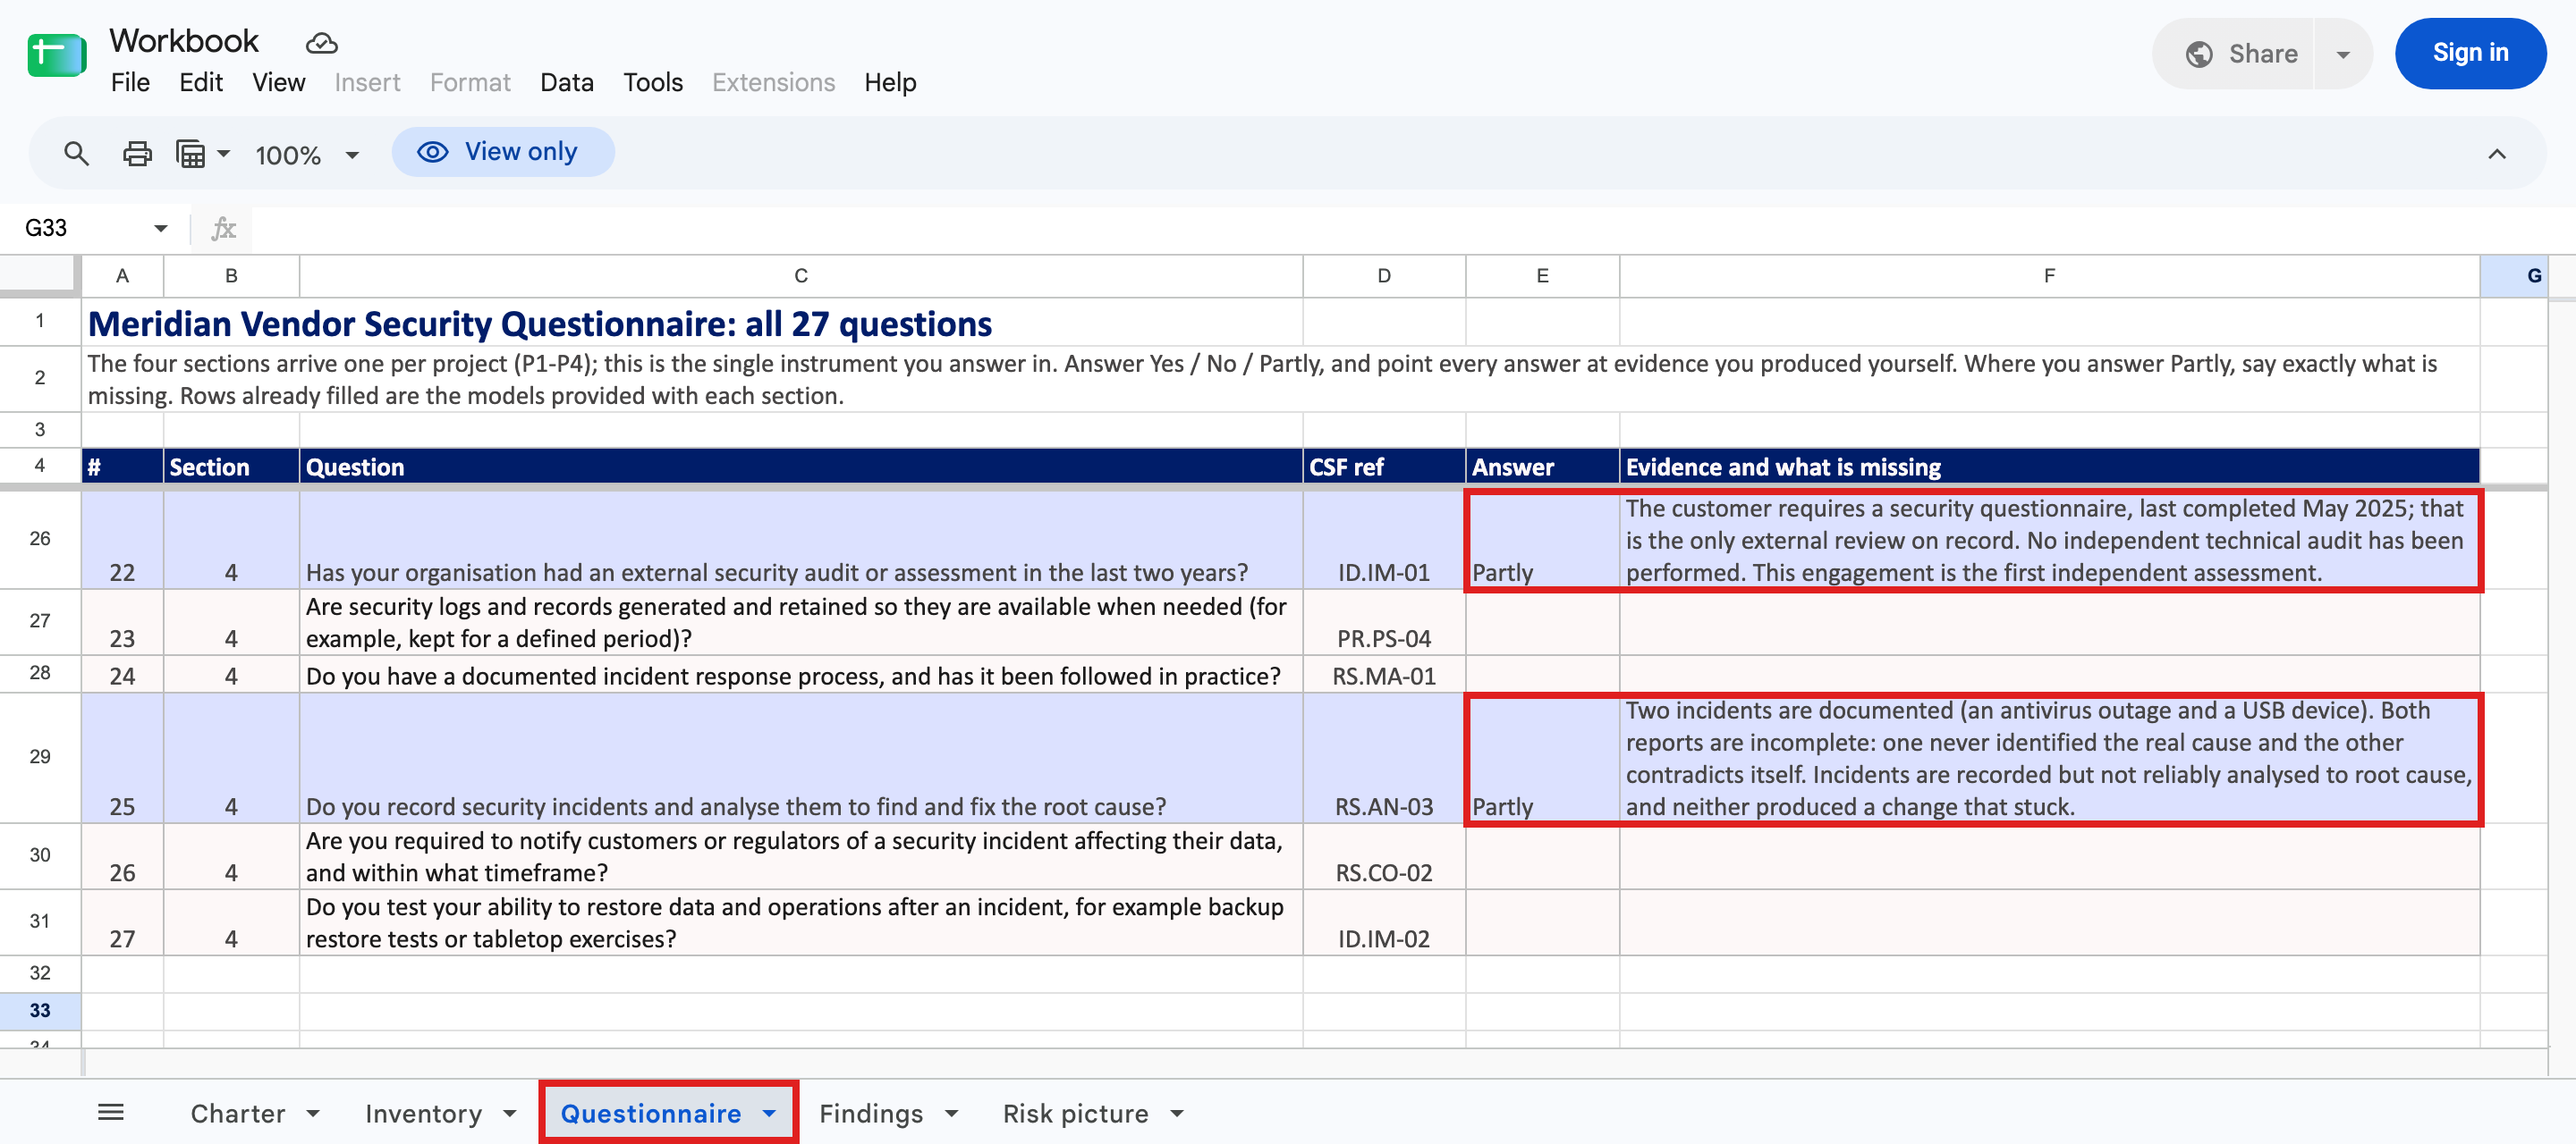
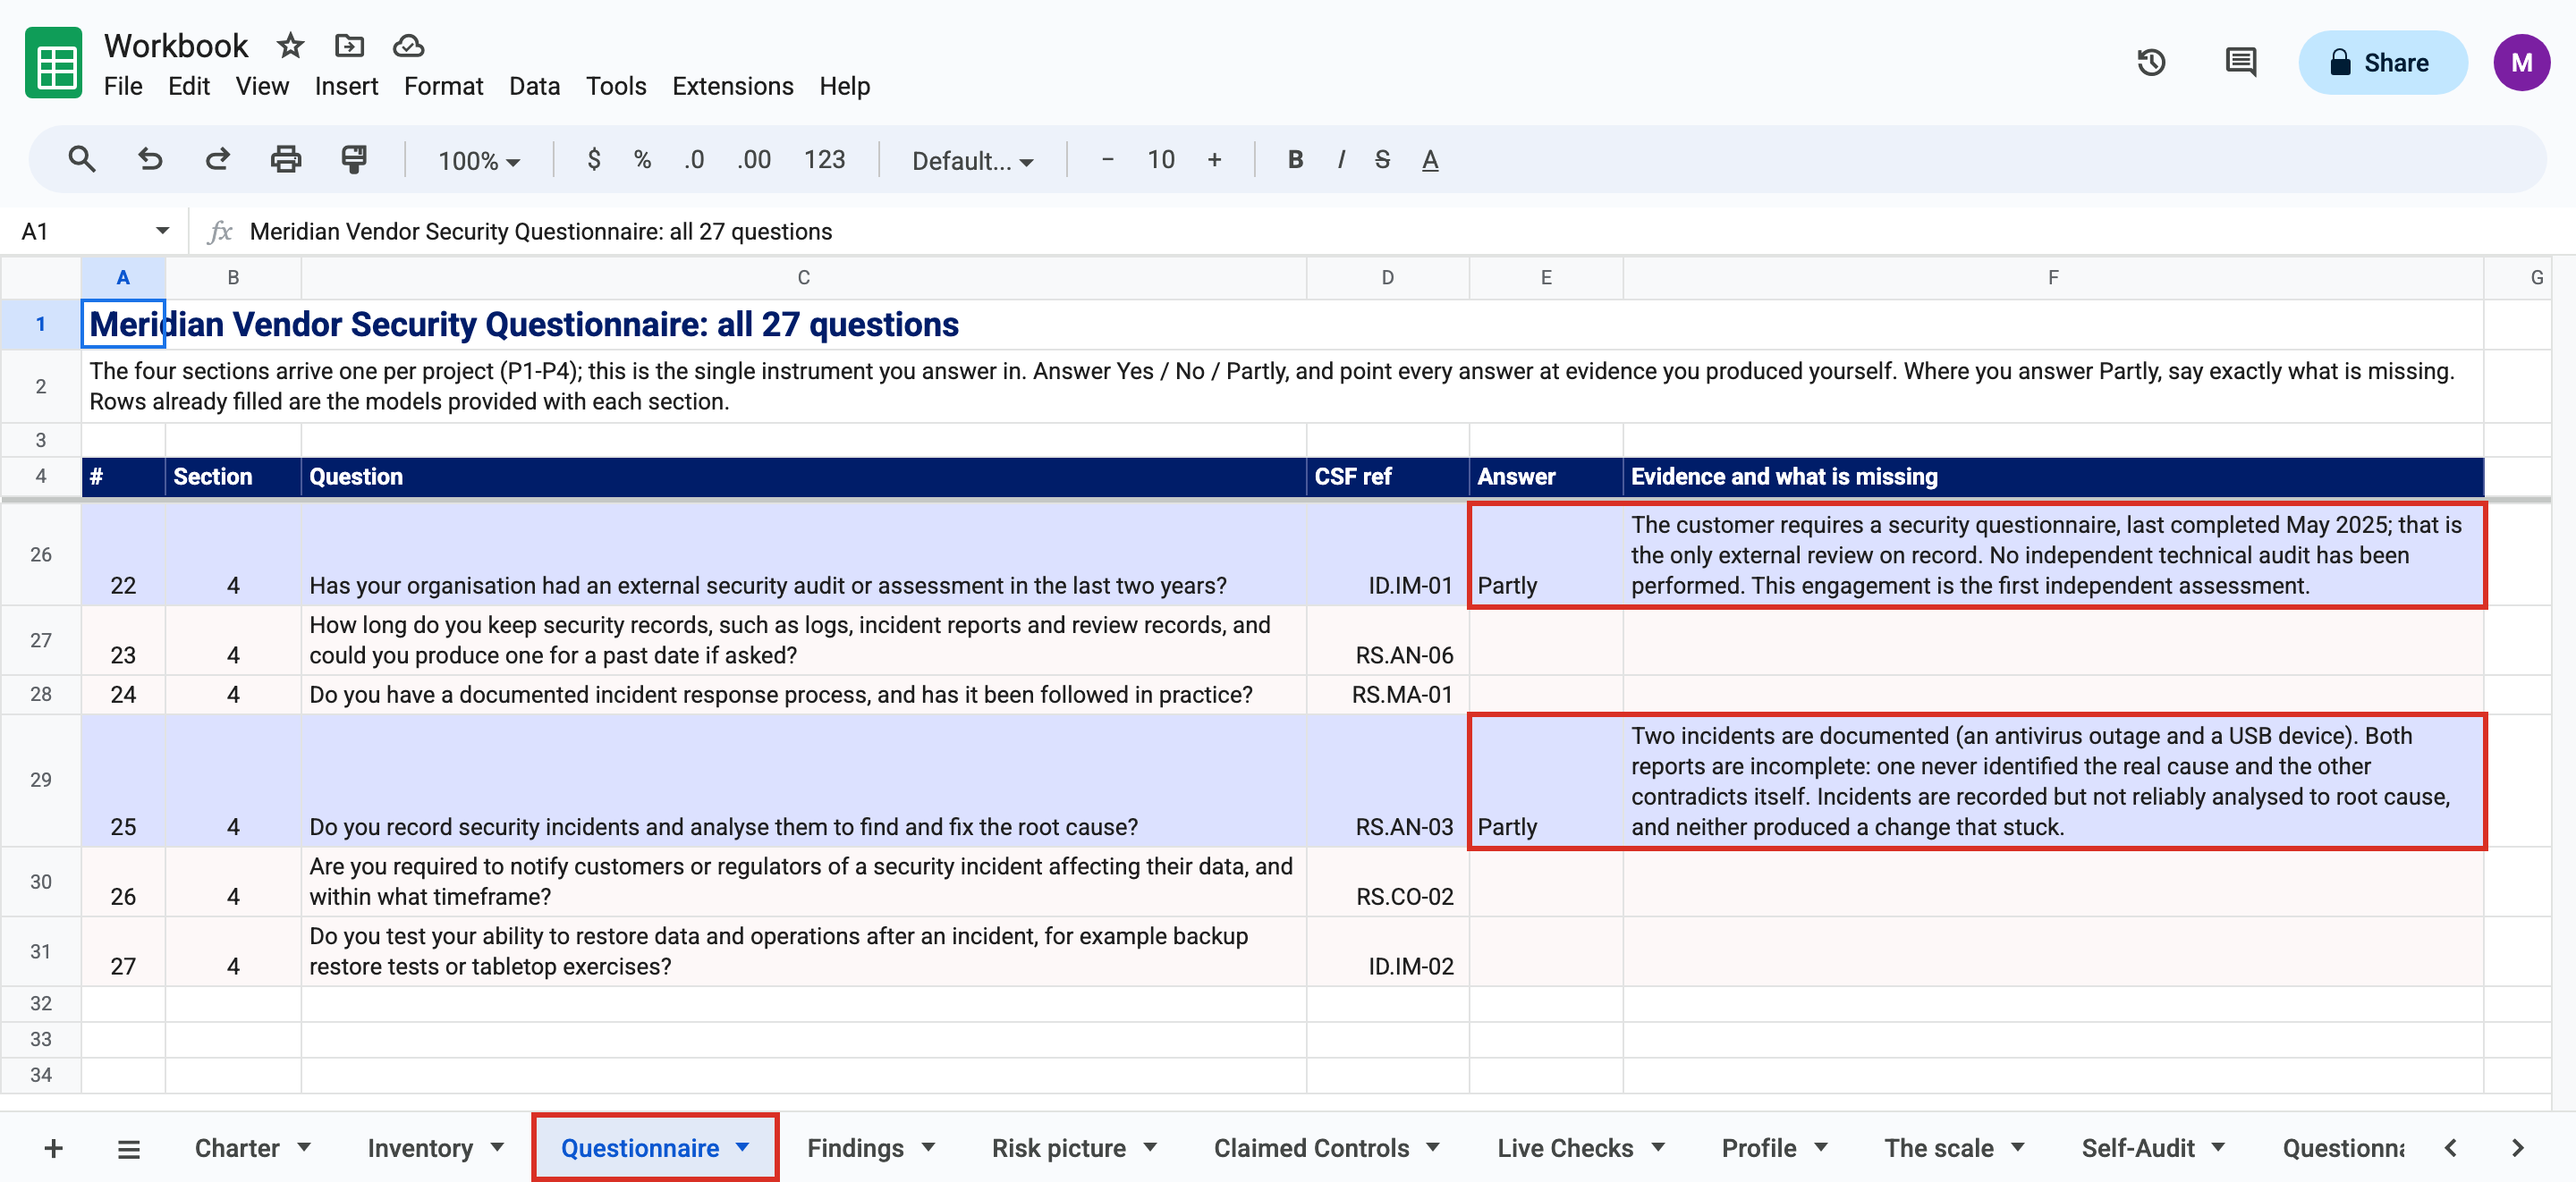
Publish vCISO P1 Step 1 interactives
Project 1 Step 1 interactives for the vCISO externship. Extern palette
only, vanilla JS, no external requests, keyboard operable, reduced-motion
safe.

diff --git a/vciso-p4-m3-what-would-an-auditor-accept.html b/vciso-p4-m3-what-would-an-auditor-accept.html
@@ -360,31 +360,36 @@
   var ITEMS = [
     { n:1, ic:"chat", ok:"only",
       t:"Nate saying “I review it every quarter”",
+      hint:"Nate is telling the truth. But can you hand what someone said to an auditor, with a date on it and a record of what was done? Try again.",
       def:"Every quarter means every three months.",
       why:["It is true, and it is still not evidence, the kind of proof an auditor can take. A person’s word is where you start, not what you hand over."] },
     { n:2, ic:"image", ok:"only", weak:true,
       t:"A screenshot of the firewall rules, no date on it",
+      hint:"Look for a date. Can you tell when this picture was taken? Try again.",
       def:"A screenshot is a picture of what was on a screen at one moment.",
       why:["It has no date, so you can’t tell when it was taken. It is weak, not nothing: a dated configuration export fixes it."] },
     { n:3, ic:"mail", ok:"only", weak:true,
       t:"The two 2024 emails (“had a look, all fine”)",
+      hint:"The emails have a date and a name on them. Do they show what was looked at? Try again.",
       def:"These are two emails sent in 2024, each saying the firewall had been looked at and was fine.",
       why:["They are dated and come from a named person, but they don’t show what was reviewed. And two emails aren’t a quarterly process, which means a review every three months. That makes them weak, not nothing: you can’t tell what was done, but that is a cheap fix."] },
     { n:4, ic:"file", ok:"accept",
       t:"A dated configuration export / change log from the firewall itself",
+      hint:"This comes from the firewall itself and it has a date. Think about what it shows: what changed, when, and which admin account made the change. Try again.",
       def:"A configuration export is a copy of every setting on the firewall, saved by the firewall itself. A change log is a list the firewall keeps of the changes made to it.",
       why:["It shows what changed, when, and by which admin account, the login used to make the change. That is the thing happening, on a date, done by someone."] },
     { n:5, ic:"book", ok:"only",
       t:"The policy line “firewall shall be reviewed quarterly”",
+      hint:"A policy says what should happen. Does it show that the review happened? Try again.",
       def:"A policy is a set of written rules a company sets for itself. “Shall” means must, and “quarterly” means every three months.",
       why:["It is a rule that the review should happen. It says nothing about whether it did."] },
     { n:6, ic:"calendar", ok:"only",
       t:"A calendar reminder titled “review firewall”",
+      hint:"A reminder is set up before the work is done. Does it show that anything was done? Try again.",
       def:"A calendar reminder is a note that pops up at a set time to remind someone to do something.",
       why:["It shows someone meant to do the review, not that anything was done."] }
   ];
   var NQ = ITEMS.length;
-  var SHOWN = "There are only two answers here, so the right one is now marked in green, “Right answer.”";
   var VERDICT = { accept:"An auditor would accept this.", only:"This only looks like proof." };
   var WEAK = "Weak, not nothing";
   var DEF1 = "Evidence is something you can hand over that shows the thing happened, on a date, done by someone.";
@@ -395,18 +400,29 @@
   S.push({ kind:"end" });
 
   /* ---------------- state ----------------
-     p[n]: the student's one pick for item n ("accept" or "only").
-     The pick is kept even when wrong, so the last screen can mark it. */
-  var KEY = "vciso-p4-m3-what-would-an-auditor-accept-v1";
+     a[n]: { out:[wrong picks, in order], done:"right" | "shown" | "" }.
+     done "right" with an empty out list means right on the first try.
+     A new key (-v2): the old -v1 key held one pick per item and no retries. */
+  var KEY = "vciso-p4-m3-what-would-an-auditor-accept-v2";
   function isPlain(o){ return !!o && typeof o === "object" && !Array.isArray(o); }
-  function fresh(){ return { p:{} }; }
+  function fresh(){ return { a:{} }; }
+  function blank(){ return { out:[], done:"" }; }
   function load(){
     try{
       var raw = JSON.parse(localStorage.getItem(KEY));
-      if(!isPlain(raw) || !isPlain(raw.p)) return fresh();
-      var p = {};
-      ITEMS.forEach(function(it){ var v = raw.p[it.n]; if(v === "accept" || v === "only") p[it.n] = v; });
-      return { p:p };
+      if(!isPlain(raw) || !isPlain(raw.a)) return fresh();
+      var a = {};
+      ITEMS.forEach(function(it){
+        var v = raw.a[it.n];
+        if(!isPlain(v) || !Array.isArray(v.out)) return;
+        var out = [];
+        v.out.forEach(function(k){ if(ANS[k] && k !== it.ok && out.indexOf(k) < 0) out.push(k); });
+        var done = (v.done === "right" || v.done === "shown") ? v.done : "";
+        if(done === "shown" && out.length < 2) done = "";
+        if(!done && !out.length) return;
+        a[it.n] = { out:out, done:done };
+      });
+      return { a:a };
     }catch(e){ return fresh(); }
   }
   function save(o){ try{ localStorage.setItem(KEY, JSON.stringify(o)); }catch(e){} }
@@ -426,8 +442,9 @@
   function strip(s){ return String(s).replace(/<[^>]+>/g,""); }
   function say(m){ el.live.textContent = ""; setTimeout(function(){ el.live.textContent = m; }, 30); }
   function phone(){ return window.matchMedia("(max-width:599px)").matches; }
-  function picked(it){ return st.p[it.n] || null; }
-  function allDone(){ return ITEMS.every(function(it){ return !!picked(it); }); }
+  function A(it){ return st.a[it.n] || blank(); }
+  function picked(it){ return !!A(it).done; }
+  function allDone(){ return ITEMS.every(function(it){ return picked(it); }); }
   function firstOpen(){ for(var k=0;k<NQ;k++) if(!picked(ITEMS[k])) return k; return -1; }
 
   /* ---------------- chrome ---------------- */
@@ -452,7 +469,10 @@
 
     if(s.kind === "q"){
       if(i === NQ - 1) el.next.textContent = "See where all six belong";
-      if(!picked(ITEMS[s.q])){ el.next.disabled = true; el.hint.textContent = "Pick one answer to carry on."; }
+      if(!picked(ITEMS[s.q])){
+        el.next.disabled = true;
+        el.hint.textContent = A(ITEMS[s.q]).out.length ? "Pick again to carry on." : "Pick one answer to carry on.";
+      }
     } else {
       if(!allDone()){ el.prog.textContent = "Not finished yet"; el.next.hidden = true; el.hint.textContent = ""; return; }
       el.next.textContent = "Start over";
@@ -496,13 +516,16 @@
   }
   function weakTag(){ return '<span class="weak">' + icon("weak") + WEAK + "</span>"; }
 
-  /* One thing on the table, two answers. Nothing chosen on arrival. */
+  /* One thing on the table, two answers. Nothing chosen on arrival.
+     A wrong pick is marked "Not quite" with a hint and taken out; the student
+     tries again. After two wrong tries the right answer would be shown. */
   function renderQ(s){
-    var it = ITEMS[s.q], p = picked(it), good = p === it.ok;
+    var it = ITEMS[s.q], a = A(it), done = a.done;
+    var last = a.out.length ? a.out[a.out.length - 1] : null;
     var h = '<div class="strip">' + icon("shield") + "<p>" + PREMISE + "</p></div>";
-    if(!p){
-      h += '<p class="lead">Here is one thing Cumberland could offer the auditor. Pick the answer that you think the auditor would give.</p>';
-      if(s.q === 0) h += '<p class="sub">There are only two answers, so if your pick is not right, we show you the right one straight away.</p>';
+    if(!done && !last){
+      h += '<p class="lead">Here is one thing Cumberland could hand the auditor. Pick the answer that you think the auditor would give.</p>';
+      if(s.q === 0) h += '<p class="sub">If your pick is not right, you can try again.</p>';
     }
     h += '<div class="card"><span class="bi">' + icon(it.ic) + "</span>"
       + '<span class="cl">On the table: #' + it.n + "</span>"
@@ -510,23 +533,24 @@
       + (it.def ? '<span class="cs">' + esc(it.def) + "</span>" : "")
       + "</div>";
     h += '<div class="opts" role="group" aria-label="Your answer">' + ORDER.map(function(k){
-        if(!p) return optHTML(k, "", "", "");
-        if(k === it.ok) return optHTML(k, "ok", "check", good ? "Right" : "Right answer");
-        if(k === p) return optHTML(k, "no", "x", "Not quite");
-        return optHTML(k, "idle", "", "");
+        if(a.out.indexOf(k) >= 0) return optHTML(k, "no", "x", "Not quite");
+        if(done && k === it.ok) return optHTML(k, "ok", "check", done === "right" ? "Right" : "Right answer");
+        if(done) return optHTML(k, "idle", "", "");
+        return optHTML(k, "", "", "");
       }).join("") + "</div>";
-    if(p){
-      var lines = [];
-      if(!good) lines.push(esc(SHOWN));
-      lines.push("<b>" + esc(VERDICT[it.ok]) + "</b> " + esc(it.why[0]));
-      h += '<div class="fb ' + (good ? "ok" : "no") + '" id="fb" tabindex="-1">'
-        + '<span class="fh">' + icon(good ? "okc" : "noc") + (good ? "Right" : "Not quite")
-        + (it.weak ? " " + weakTag() : "") + "</span>"
-        + lines.map(function(t){ return '<p class="ft">' + t + "</p>"; }).join("") + "</div>";
+    if(done){
+      var head = done === "right" ? "Right" : "Here is the right answer";
+      h += '<div class="fb ok" id="fb" tabindex="-1">'
+        + '<span class="fh">' + icon("okc") + head + (it.weak ? " " + weakTag() : "") + "</span>"
+        + '<p class="ft"><b>' + esc(VERDICT[it.ok]) + "</b> " + esc(it.why[0]) + "</p></div>";
+    } else if(last){
+      h += '<div class="fb no" id="fb" tabindex="-1">'
+        + '<span class="fh">' + icon("noc") + "Not quite</span>"
+        + '<p class="ft">' + esc(it.hint) + "</p></div>";
     }
     el.board.innerHTML = h;
-    if(!p){
-      Array.prototype.forEach.call(el.board.querySelectorAll("button.opt"), function(b){
+    if(!done){
+      Array.prototype.forEach.call(el.board.querySelectorAll("button.opt:not(:disabled)"), function(b){
         b.addEventListener("click", function(){ choose(it, b.dataset.o); });
       });
     }
@@ -534,20 +558,29 @@
   }
 
   function choose(it, k){
-    if(picked(it) || !ANS[k]) return;
-    st.p[it.n] = k; save(st);
+    var a = A(it);
+    if(a.done || !ANS[k] || a.out.indexOf(k) >= 0) return;
+    if(k === it.ok) a.done = "right";
+    else { a.out.push(k); if(a.out.length >= 2) a.done = "shown"; }
+    st.a[it.n] = a; save(st);
     render();
     var fb = el.board.querySelector("#fb");
     if(fb && !reduce){ fb.classList.remove("in"); void fb.offsetWidth; fb.classList.add("in"); }
     if(fb) say(strip(fb.innerHTML.replace(/<\/p>/g, " ").replace(/<\/span>/g, ". ")));
     var ph = phone();
-    el.next.focus(ph ? { preventScroll:true } : undefined);
-    if(fb && ph) el.bar.scrollIntoView({ block:"end", behavior: reduce ? "auto" : "smooth" });
+    if(a.done){
+      el.next.focus(ph ? { preventScroll:true } : undefined);
+      if(fb && ph) el.bar.scrollIntoView({ block:"end", behavior: reduce ? "auto" : "smooth" });
+    } else {
+      var again = el.board.querySelector("button.opt:not(:disabled)");
+      if(again) again.focus(ph ? { preventScroll:true } : undefined);
+      if(fb && ph) fb.scrollIntoView({ block:"nearest", behavior: reduce ? "auto" : "smooth" });
+    }
   }
 
   /* The last screen: where all six belong, then the definition. */
-  function mark(good){
-    return '<span class="mk2 ' + (good ? "ok" : "sh") + '">' + icon(good ? "check" : "info") + (good ? "Right" : "Shown to you") + "</span>";
+  function mark(first){
+    return '<span class="mk2 ' + (first ? "ok" : "sh") + '">' + icon(first ? "check" : "info") + (first ? "Right first try" : "Right on second try") + "</span>";
   }
   function renderEnd(){
     var open = firstOpen();
@@ -558,11 +591,11 @@
     function list(k){
       return ITEMS.filter(function(it){ return it.ok === k; }).map(function(it){
         return '<li><span class="n">#' + it.n + '</span><span class="t">' + esc(it.t) + "</span>"
-          + '<span class="tags">' + mark(picked(it) === it.ok) + (it.weak ? weakTag() : "") + "</span></li>";
+          + '<span class="tags">' + mark(A(it).out.length === 0) + (it.weak ? weakTag() : "") + "</span></li>";
       }).join("");
     }
     el.board.innerHTML = '<p class="lead">Here is where each of the six belongs. ' + mark(true)
-      + " means you sorted it yourself. " + mark(false) + " means we showed you the answer. " + weakTag() + " means it is not proof yet, but it is a cheap fix.</p>"
+      + " means your first pick was right. " + mark(false) + " means you got it after one wrong pick. " + weakTag() + " means it is not proof yet, but it is a cheap fix.</p>"
       + '<div class="buckets"><div class="col">'
       +   '<div class="bucket"><div class="bh">' + icon("stamp") + esc(ANS.accept.name) + "</div><ul>" + list("accept") + "</ul></div>"
       +   '<div class="statement"><p>' + esc(DEF1) + "</p><p>" + esc(DEF2) + "</p></div>"
@@ -652,7 +685,7 @@
     },
     slides:S.length,
     reset:function(){ st = fresh(); save(st); i = 0; confirming = false; render(); },
-    state:function(){ return { i:i, p:JSON.parse(JSON.stringify(st.p)), confirming:confirming }; }
+    state:function(){ return { i:i, a:JSON.parse(JSON.stringify(st.a)), confirming:confirming }; }
   };
 })();
 </script>
